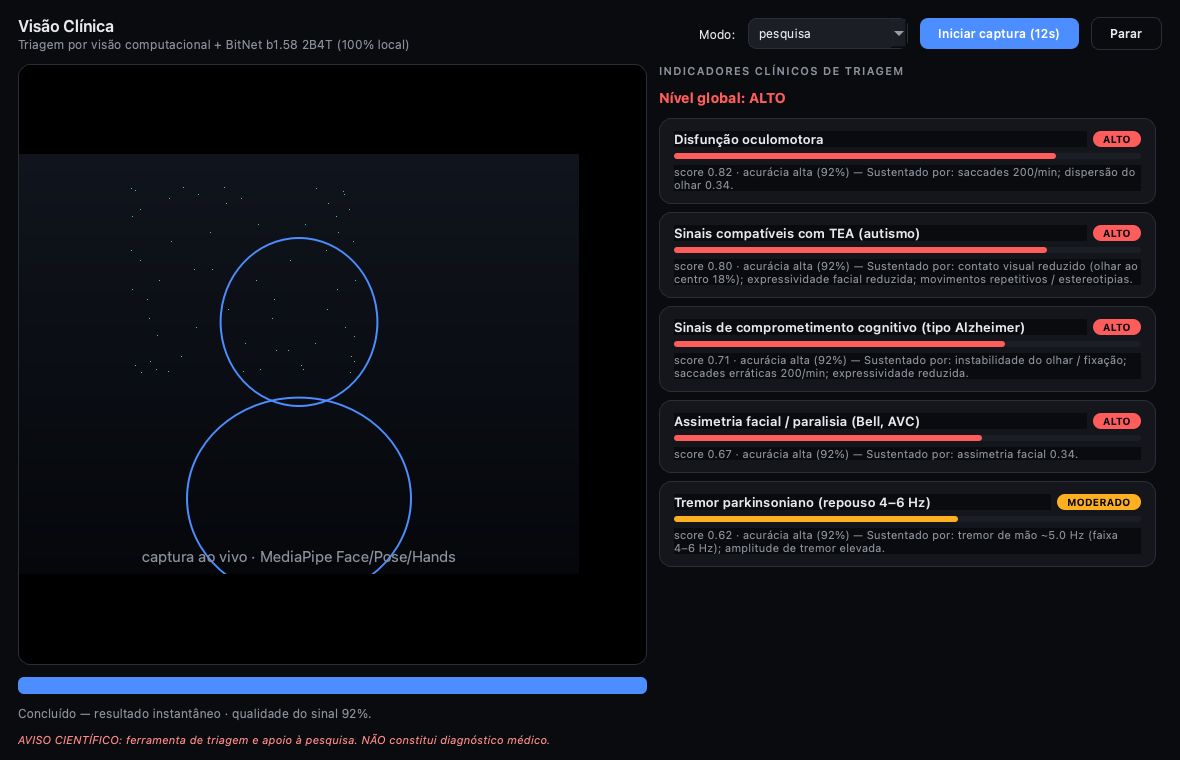
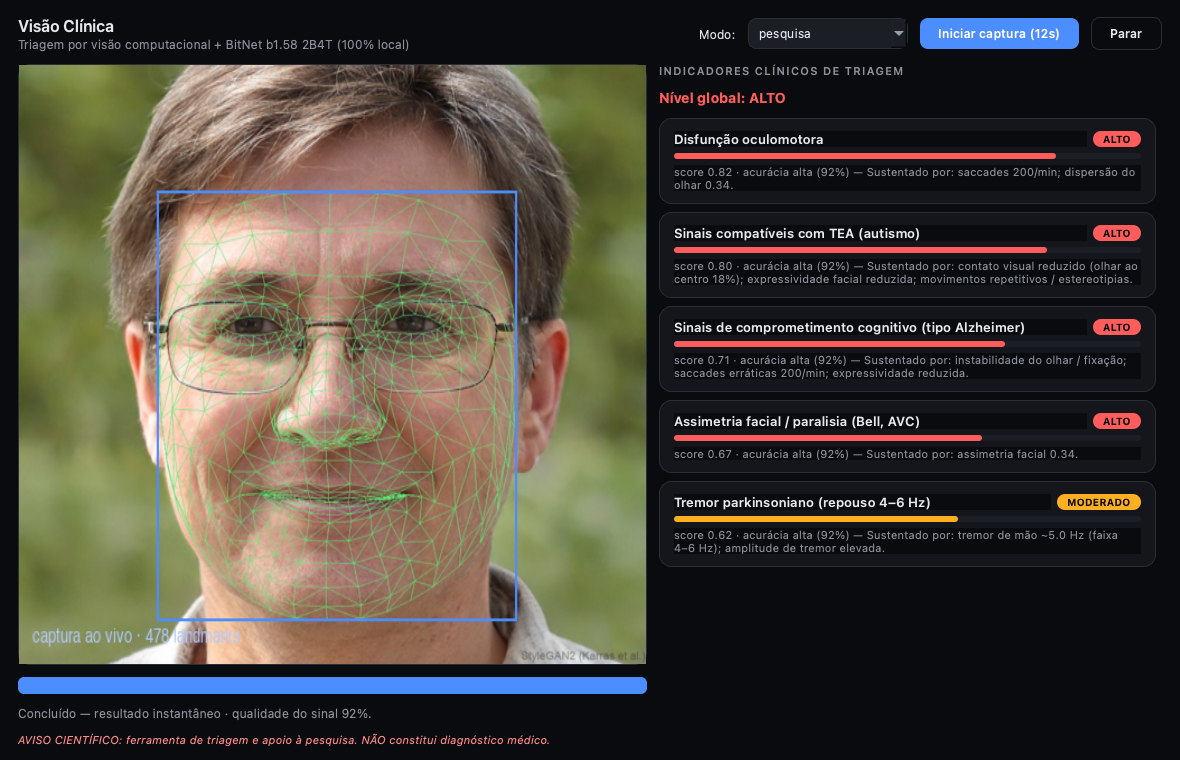
Page: app preview e personas com pessoas reais + landmarks (MediaPipe)

diff --git a/docs/index.html b/docs/index.html
@@ -70,6 +70,7 @@
   .persona{background:var(--panel);border:1px solid var(--border);border-radius:14px;
     padding:22px;text-align:center}
   .persona svg{width:96px;height:96px;margin-bottom:8px}
+  .persona img{width:120px;height:120px;border-radius:50%;margin-bottom:10px}
   .persona h3{font-size:16px}.persona p{font-size:13px}
 </style>
 </head>
@@ -127,36 +128,17 @@
     <h2>Para quem é</h2>
     <div class="grid g3">
       <div class="persona">
-        <svg viewBox="0 0 120 120" xmlns="http://www.w3.org/2000/svg">
-          <circle cx="60" cy="60" r="58" fill="#14161b" stroke="#2a2e37"/>
-          <path d="M22 104 q38 -46 76 0z" fill="#4c8dff"/>
-          <circle cx="60" cy="50" r="24" fill="#e6e8ec"/>
-          <path d="M40 44 q20 -22 40 0 q-4 -22 -20 -22 q-16 0 -20 22z" fill="#2a2e37"/>
-          <path d="M48 92 v-14 M72 92 v-14" stroke="#3ecf8e" stroke-width="3" fill="none"/>
-          <circle cx="60" cy="100" r="5" fill="#3ecf8e"/>
-        </svg>
+        <img src="assets/persona1.png" alt="Profissional de saúde">
         <h3>Profissional de saúde</h3>
         <p>Triagem rápida de pacientes, com indicadores de risco e relatório em PDF.</p>
       </div>
       <div class="persona">
-        <svg viewBox="0 0 120 120" xmlns="http://www.w3.org/2000/svg">
-          <circle cx="60" cy="60" r="58" fill="#14161b" stroke="#2a2e37"/>
-          <path d="M22 104 q38 -46 76 0z" fill="#ffb020"/>
-          <circle cx="60" cy="50" r="24" fill="#e6e8ec"/>
-          <path d="M38 46 q22 -26 44 0 v-6 q-22 -20 -44 0z" fill="#2a2e37"/>
-          <g fill="none" stroke="#1b1e25" stroke-width="3"><circle cx="51" cy="50" r="7"/><circle cx="69" cy="50" r="7"/><path d="M58 50h4"/></g>
-        </svg>
+        <img src="assets/persona2.png" alt="Pesquisador(a)">
         <h3>Pesquisador(a)</h3>
         <p>Acesso a todas as métricas e biomarcadores, exportação em CSV para análise.</p>
       </div>
       <div class="persona">
-        <svg viewBox="0 0 120 120" xmlns="http://www.w3.org/2000/svg">
-          <circle cx="60" cy="60" r="58" fill="#14161b" stroke="#2a2e37"/>
-          <path d="M22 104 q38 -46 76 0z" fill="#3ecf8e"/>
-          <circle cx="60" cy="50" r="24" fill="#e6e8ec"/>
-          <path d="M36 50 q24 -30 48 0 q0 -26 -24 -26 q-24 0 -24 26z" fill="#2a2e37"/>
-          <g fill="#3ecf8e"><circle cx="51" cy="48" r="2"/><circle cx="69" cy="48" r="2"/><circle cx="60" cy="56" r="2"/></g>
-        </svg>
+        <img src="assets/persona3.png" alt="Pessoa em triagem">
         <h3>Pessoa em triagem</h3>
         <p>Interface simplificada: basta olhar para a câmera e receber um indicador de risco.</p>
       </div>

diff --git a/scripts/make_app_personas.py b/scripts/make_app_personas.py
@@ -1,0 +1,80 @@
+"""Gera preview de rosto real (para o app.png) e personas circulares com landmarks.
+
+Saídas: /tmp/preview_face.png e docs/assets/persona{1,2,3}.png
+"""
+import glob
+import cv2
+import numpy as np
+import mediapipe as mp
+from PIL import Image, ImageDraw, ImageFont
+
+mp_face = mp.solutions.face_mesh
+mp_draw = mp.solutions.drawing_utils
+green = mp_draw.DrawingSpec(color=(120, 230, 100), thickness=1, circle_radius=0)
+
+
+def font(sz, bold=False):
+    try:
+        return ImageFont.truetype("/System/Library/Fonts/Helvetica.ttc", sz)
+    except Exception:
+        return ImageFont.load_default()
+
+
+def process(path, mesh=True):
+    bgr = cv2.imread(path)
+    if bgr is None:
+        return None
+    h, w = bgr.shape[:2]
+    with mp_face.FaceMesh(static_image_mode=True, refine_landmarks=True, max_num_faces=1) as fm:
+        res = fm.process(cv2.cvtColor(bgr, cv2.COLOR_BGR2RGB))
+    if not res.multi_face_landmarks:
+        return None
+    lm = res.multi_face_landmarks[0]
+    if mesh:
+        mp_draw.draw_landmarks(bgr, lm, mp_face.FACEMESH_TESSELATION, None, green)
+    xs = [p.x * w for p in lm.landmark]; ys = [p.y * h for p in lm.landmark]
+    img = Image.fromarray(cv2.cvtColor(bgr, cv2.COLOR_BGR2RGB))
+    return img, (int(min(xs)), int(min(ys)), int(max(xs)), int(max(ys)))
+
+
+def make_preview(path, out, size=(560, 420)):
+    """Rosto real recortado para a área de preview do app, com bbox."""
+    img, (x0, y0, x1, y1) = process(path)
+    cx, cy = (x0 + x1) // 2, (y0 + y1) // 2
+    half_w = int((x1 - x0) * 0.95); half_h = int((y1 - y0) * 0.75)
+    L = max(cx - int(size[0] / size[1] * half_h), 0); R = min(cx + int(size[0] / size[1] * half_h), img.size[0])
+    T = max(cy - half_h - 30, 0); B = min(cy + half_h + 40, img.size[1])
+    face = img.crop((L, T, R, B)).resize(size)
+    canvas = Image.new("RGB", size, (0, 0, 0))
+    canvas.paste(face, (0, 0))
+    d = ImageDraw.Draw(canvas)
+    bx0 = int((x0 - L) / (R - L) * size[0]); by0 = int((y0 - T) / (B - T) * size[1])
+    bx1 = int((x1 - L) / (R - L) * size[0]); by1 = int((y1 - T) / (B - T) * size[1])
+    d.rectangle([bx0, by0, bx1, by1], outline=(76, 141, 255), width=2)
+    d.text((12, size[1] - 26), "captura ao vivo · 478 landmarks", font=font(13, True), fill=(180, 200, 255))
+    canvas.save(out)
+    print("OK", out)
+
+
+def make_persona(path, out, ring, label, size=240):
+    img, (x0, y0, x1, y1) = process(path)
+    cx, cy = (x0 + x1) // 2, (y0 + y1) // 2
+    half = int(max(x1 - x0, y1 - y0) * 0.8)
+    crop = img.crop((max(cx - half, 0), max(cy - half, 0),
+                     min(cx + half, img.size[0]), min(cy + half, img.size[1]))).resize((size, size))
+    # máscara circular
+    mask = Image.new("L", (size, size), 0)
+    ImageDraw.Draw(mask).ellipse([6, 6, size - 6, size - 6], fill=255)
+    out_img = Image.new("RGBA", (size, size), (0, 0, 0, 0))
+    out_img.paste(crop, (0, 0), mask)
+    d = ImageDraw.Draw(out_img)
+    d.ellipse([4, 4, size - 4, size - 4], outline=ring, width=5)
+    out_img.save(out)
+    print("OK", out, "-", label)
+
+
+faces = sorted(glob.glob("/tmp/real_face_*.jpg"))
+make_preview(faces[5], "/tmp/preview_face.png")
+make_persona(faces[6], "docs/assets/persona1.png", (76, 141, 255), "Profissional de saúde")
+make_persona(faces[7], "docs/assets/persona2.png", (255, 176, 32), "Pesquisador(a)")
+make_persona(faces[8], "docs/assets/persona3.png", (62, 207, 142), "Pessoa em triagem")